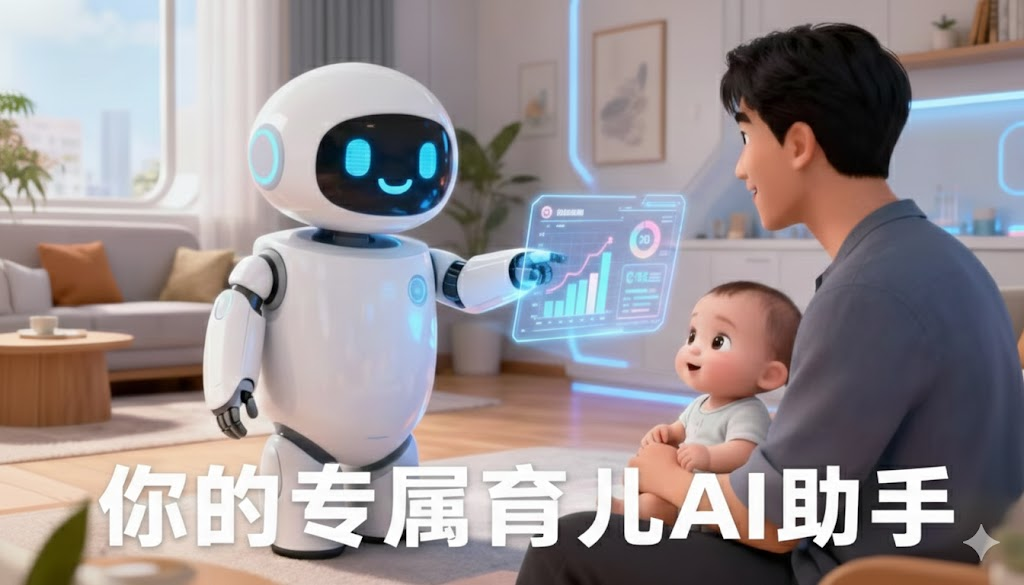
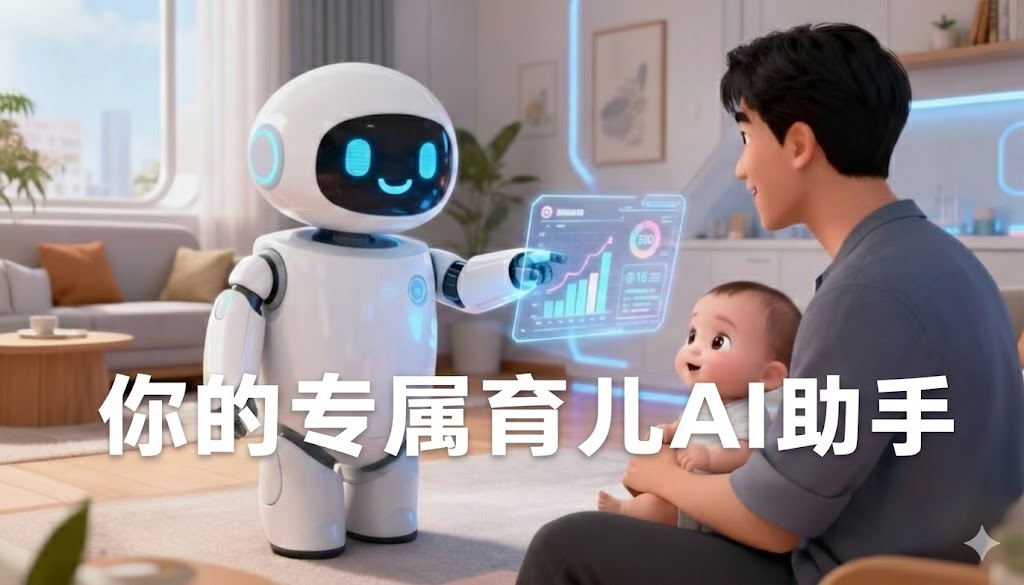
feat: 添加轮播图

Changed region(s): [[0.0938, 0.6154, 0.9375, 0.9538]]

diff --git a/src/components/home/Banner/HomeBanner.tsx b/src/components/home/Banner/HomeBanner.tsx
@@ -24,6 +24,21 @@ const RAW_DATA = [
     id: '2',
     imageSource: require('../../../assets/poster_community.png'),
     targetPage: 'scrollToCommunity'
+  },
+  {
+    id: '3',
+    imageSource: require('../../../assets/Growth curve.png'),
+    targetPage: 'GrowthCurve'
+  },
+  {
+    id: '4',
+    imageSource: require('../../../assets/Major Events.png'),
+    targetPage: 'MilestoneList'
+  },
+  {
+    id: '5',
+    imageSource: require('../../../assets/Vaccine records.png'),
+    targetPage: 'VaccineRecord'
   }
 ]
 

diff --git a/src/utils/request.ts b/src/utils/request.ts
@@ -2,7 +2,7 @@ import axios from 'axios'
 // import store from '../store'
 import * as SecureStore from 'expo-secure-store'
 //创建axios实例
-const baseURL = 'https://m1.apifoxmock.com/m1/7571791-7309471-default' //云端mock地址
+const baseURL = 'https://tayna-nonredemptible-dissipatedly.ngrok-free.dev/api' //云端mock地址
 const request = axios.create({
   baseURL,
   timeout: 10000 //10s
